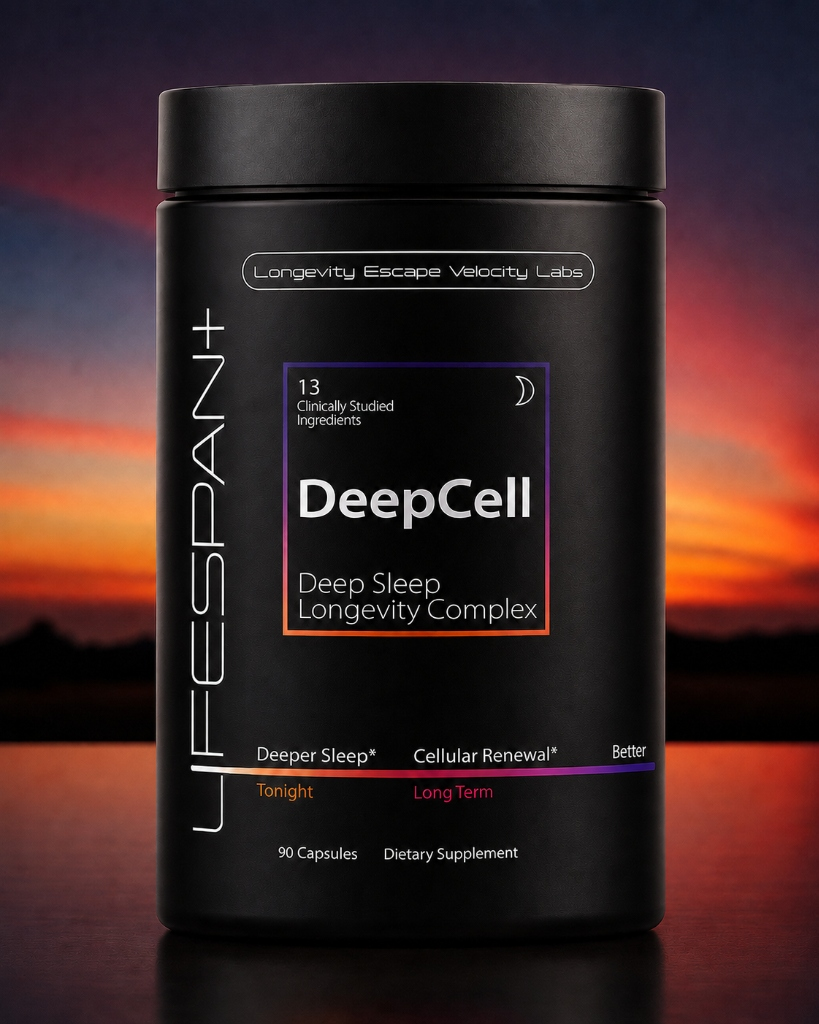
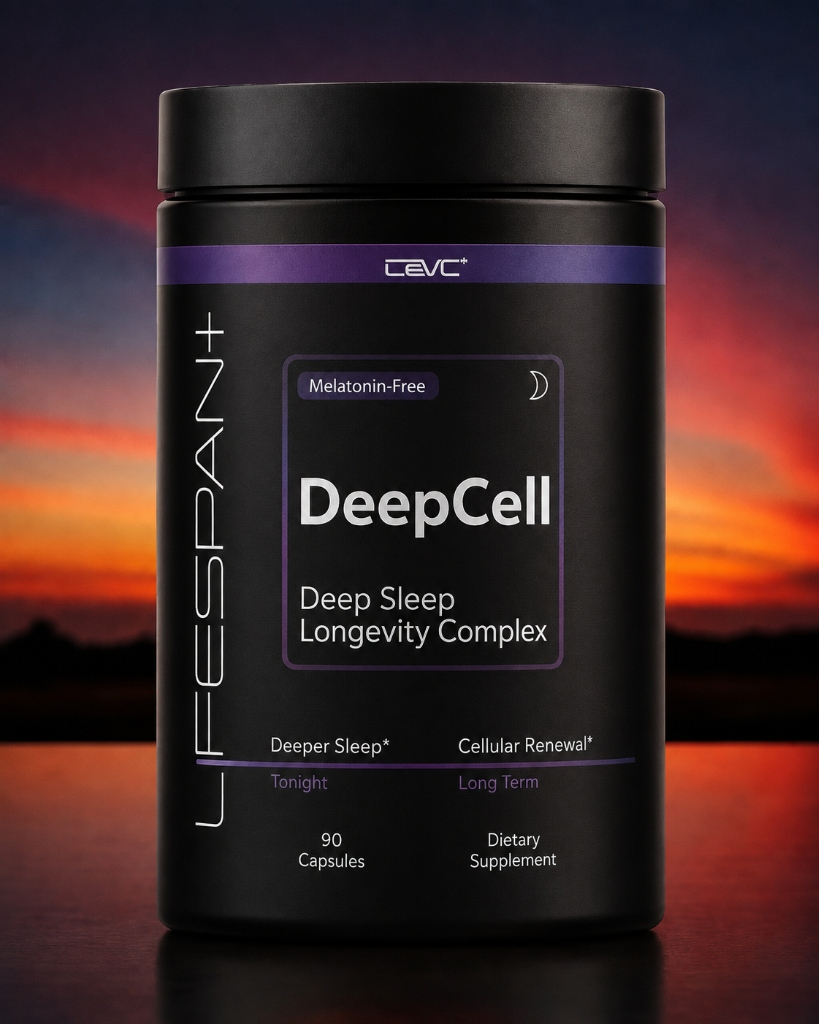
feat(gallery): update cover bottle image and pathways bedroom infographic

diff --git a/src/components/product/ProductGallery.tsx b/src/components/product/ProductGallery.tsx
@@ -3,7 +3,7 @@
 import React, { useState } from 'react';
 import Image from 'next/image';
 import { motion, AnimatePresence } from 'framer-motion';
-import { Zap, Activity, Moon, ShieldCheck, Dna, SunMoon } from 'lucide-react';
+import { Zap, Activity, Moon } from 'lucide-react';
 import { SupplementFacts } from './SupplementFacts';
 import { ValueProposition } from './ValueProposition';
 
@@ -115,74 +115,7 @@ export function ProductGallery({ images }: ProductGalleryProps) {
             </>
           )}
 
-          {images[safeIndex].altText === '5 Core Biological Pathways' && (
-            <motion.div
-              initial={{ opacity: 0 }}
-              animate={{ opacity: 1 }}
-              exit={{ opacity: 0 }}
-              transition={{ duration: 0.3 }}
-              className="absolute inset-0 bg-gradient-to-r from-black/90 via-black/60 to-transparent z-10 flex flex-col pt-6 md:pt-10 px-4 md:px-8 pb-4 overflow-y-auto hide-scrollbar"
-            >
-              <div className="max-w-[85%] md:max-w-[70%]">
-                <h3 className="text-xl md:text-3xl font-bold text-white mb-1 md:mb-2 tracking-tight">5 SYNERGISTIC PATHWAYS</h3>
-                <p className="text-xs md:text-base text-white/80 mb-3 md:mb-6 leading-relaxed">
-                  DeepCell's formulation combines five scientifically-designed pathways that work together to target all hallmarks of aging with unprecedented precision.
-                </p>
 
-                <div className="space-y-3 md:space-y-5">
-                  <div className="flex gap-3 md:gap-4 items-center md:items-start">
-                    <div className="w-9 h-9 md:w-12 md:h-12 rounded-lg md:rounded-xl bg-[var(--color-levl-green)]/10 flex items-center justify-center shrink-0 border border-[var(--color-levl-green)]/20 shadow-[0_0_15px_rgba(34,197,94,0.15)]">
-                      <Moon className="w-4 h-4 md:w-6 md:h-6 text-[var(--color-levl-green)]" />
-                    </div>
-                    <div className="pt-0.5">
-                      <h4 className="font-bold text-white text-sm md:text-lg leading-tight mb-0.5 md:mb-1">Deep Sleep Architecture</h4>
-                      <p className="text-[10px] md:text-sm text-white/60 leading-tight">Optimization of GABA and alpha brain waves</p>
-                    </div>
-                  </div>
-
-                  <div className="flex gap-3 md:gap-4 items-center md:items-start">
-                    <div className="w-9 h-9 md:w-12 md:h-12 rounded-lg md:rounded-xl bg-[var(--color-levl-cyan)]/10 flex items-center justify-center shrink-0 border border-[var(--color-levl-cyan)]/20 shadow-[0_0_15px_rgba(14,165,233,0.15)]">
-                      <Activity className="w-4 h-4 md:w-6 md:h-6 text-[var(--color-levl-cyan)]" />
-                    </div>
-                    <div className="pt-0.5">
-                      <h4 className="font-bold text-white text-sm md:text-lg leading-tight mb-0.5 md:mb-1">Overnight Cellular Tuneup</h4>
-                      <p className="text-[10px] md:text-sm text-white/60 leading-tight">Nocturnal autophagy & glymphatic clearance</p>
-                    </div>
-                  </div>
-
-                  <div className="flex gap-3 md:gap-4 items-center md:items-start">
-                    <div className="w-9 h-9 md:w-12 md:h-12 rounded-lg md:rounded-xl bg-[var(--color-levl-magenta)]/10 flex items-center justify-center shrink-0 border border-[var(--color-levl-magenta)]/20 shadow-[0_0_15px_rgba(217,70,239,0.15)]">
-                      <ShieldCheck className="w-4 h-4 md:w-6 md:h-6 text-[var(--color-levl-magenta)]" />
-                    </div>
-                    <div className="pt-0.5">
-                      <h4 className="font-bold text-white text-sm md:text-lg leading-tight mb-0.5 md:mb-1">Neuroprotection & Mood</h4>
-                      <p className="text-[10px] md:text-sm text-white/60 leading-tight">Inflammatory modulation & stress resilience</p>
-                    </div>
-                  </div>
-
-                  <div className="flex gap-3 md:gap-4 items-center md:items-start">
-                    <div className="w-9 h-9 md:w-12 md:h-12 rounded-lg md:rounded-xl bg-[var(--color-levl-cyan)]/10 flex items-center justify-center shrink-0 border border-[var(--color-levl-cyan)]/20 shadow-[0_0_15px_rgba(14,165,233,0.15)]">
-                      <Dna className="w-4 h-4 md:w-6 md:h-6 text-[var(--color-levl-cyan)]" />
-                    </div>
-                    <div className="pt-0.5">
-                      <h4 className="font-bold text-white text-sm md:text-lg leading-tight mb-0.5 md:mb-1">Nightly Cellular Rejuvenation</h4>
-                      <p className="text-[10px] md:text-sm text-white/60 leading-tight">Genomic stability & mitochondrial ATP</p>
-                    </div>
-                  </div>
-
-                  <div className="flex gap-3 md:gap-4 items-center md:items-start">
-                    <div className="w-9 h-9 md:w-12 md:h-12 rounded-lg md:rounded-xl bg-[var(--color-levl-magenta)]/10 flex items-center justify-center shrink-0 border border-[var(--color-levl-magenta)]/20 shadow-[0_0_15px_rgba(217,70,239,0.15)]">
-                      <SunMoon className="w-4 h-4 md:w-6 md:h-6 text-[var(--color-levl-magenta)]" />
-                    </div>
-                    <div className="pt-0.5">
-                      <h4 className="font-bold text-white text-sm md:text-lg leading-tight mb-0.5 md:mb-1">Natural Melatonin Support</h4>
-                      <p className="text-[10px] md:text-sm text-white/60 leading-tight">Providing precursors for serotonin & melatonin</p>
-                    </div>
-                  </div>
-                </div>
-              </div>
-            </motion.div>
-          )}
 
           {images[safeIndex].altText === 'Supplement Facts' && (
              <motion.div
